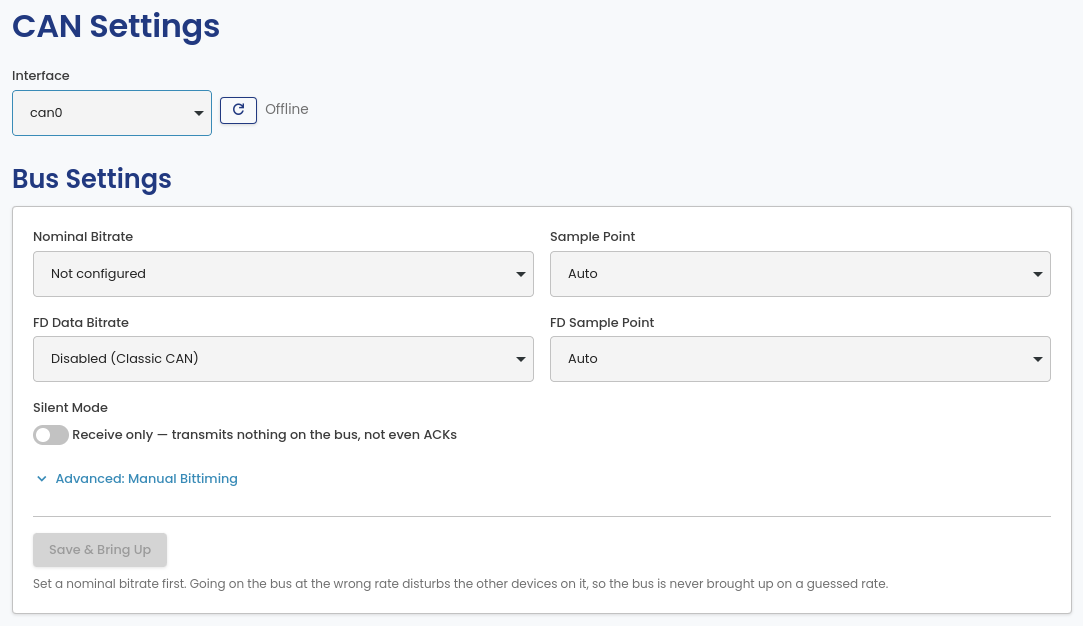
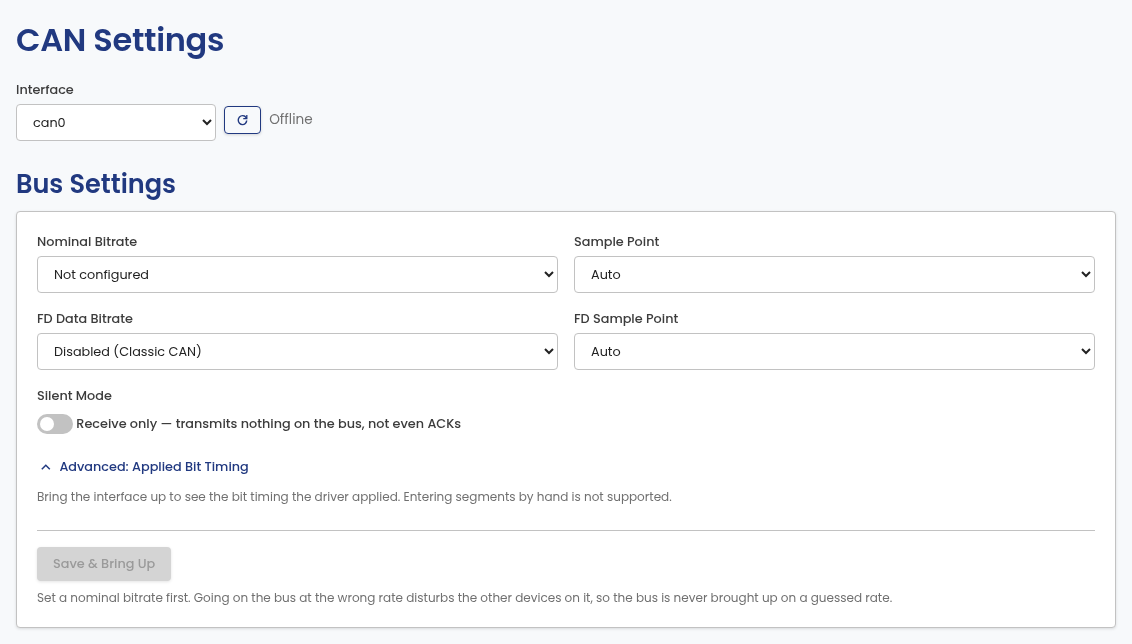
docs(can-settings): the bit timing section is a read-only report
The CAN Settings page used to offer an "Advanced: Manual Bittiming" form
whose values were never applied. It is now "Advanced: Applied Bit Timing",
which reports the segments the driver computed. Document what it shows and
that segments cannot be entered by hand, and recapture the two Bus Settings
screenshots — both showed the old section label.

diff --git a/docs/portal/can-settings.md b/docs/portal/can-settings.md
@@ -27,6 +27,11 @@ The capture control is at the bottom of the Bus Settings card:
   Data captured just before bring-down is still processed in the
   background, so dashboards may keep updating briefly.
 
+**Advanced: Applied Bit Timing** reports the bit segments the driver
+computed from the bitrate and sample point you set. The values appear once
+the interface is up. On a CAN FD bus the data phase segments are listed as
+well. The report is read-only: entering segments by hand is not supported.
+
 ![CAN Settings: interface offline](../images/portal/can-settings/offline.png)
 
 ![CAN Settings: interface online](../images/portal/can-settings/online.png)
